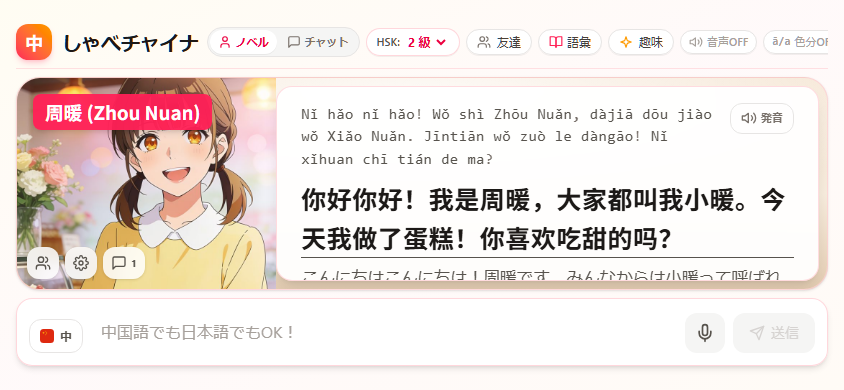
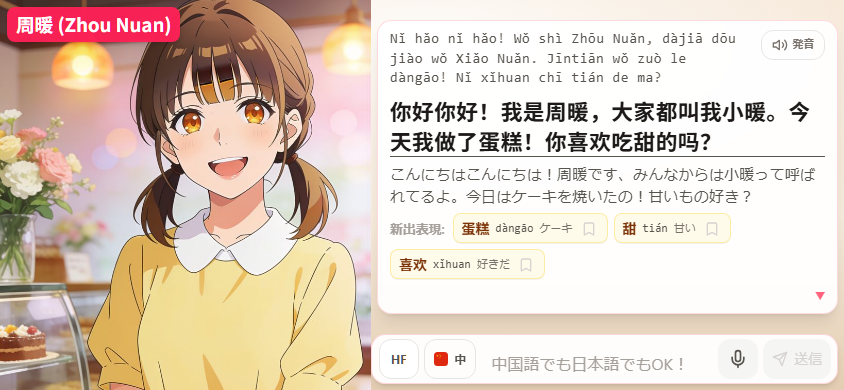
T-47: スマホ横画面レイアウト改善のドキュメントを更新
T-46 の変更を公開ドキュメントへ反映し、記録が抜けていた T-44・T-45 も補う。

- CHANGELOG に T-44 / T-45 / T-46 のエントリを追記
- README のレスポンシブ節を実装に合わせて更新
  （ヘッダーの自動格納、立ち絵が画面下端まで届くこと、初回タップでの全画面試行）
- スマホ横画面のスクリーンショットを新レイアウトで撮り直し
- 撮影定義にヘッダー格納待ちのステップを追加し、代替テキストを更新

diff --git a/CHANGELOG.md b/CHANGELOG.md
@@ -7,6 +7,44 @@
 
 ---
 
+## T-46 — スマホ横画面で立ち絵を画面下端まで通しヘッダーを自動格納
+
+**2026-09-09** · [`c99fbbb`](https://github.com/Satoshi-Hiramatsu/try-chinese/commit/c99fbbbf2cfe31d08747d18b6fb9a9caa90835a8)
+
+T-43 ではヘッダーの圧縮と文字サイズ調整に留まっていたため、スマートフォン横画面のレイアウトを組み直しました。
+
+- 横画面スマートフォンでは最初の画面タップで全画面表示を1度だけ試み、ブラウザのアドレスバーを畳みます。拒否・非対応でも通常表示のまま利用できます。
+- 約4秒の無操作でアプリのヘッダーごと畳み、その高さを立ち絵へ譲ります。画面タップで再表示され、「その他」メニュー展開中は畳みません。
+- ノベル画面を2カラムグリッドへ組み直し、立ち絵ステージを全面に敷いた上で入力欄だけを右カラム下端へ重ねました。立ち絵は画面の下端まで届きます。
+- テキスト枠の下余白を入力欄の実測高さ（CSS変数 `--vn-input-h`）で確保し、音声入力バーの表示で高さが変わっても本文が潜り込まないようにしました。
+- 横画面の回帰テストを追加し、READMEのレスポンシブ表示の記述とスマホ横画面のスクリーンショットを更新しました。
+
+---
+
+## T-45 — TTSモデル検証モードのUIを改善
+
+**2026-09-09** · [`ef6d75a`](https://github.com/Satoshi-Hiramatsu/try-chinese/commit/ef6d75a6b051983fceaaea3b95a7b1e9b5a9d60d)
+
+未読み込みだったCSSを配線し、検証画面が素のHTMLとして表示される問題を解消しました。
+
+- `tts-debug-*` スタイルを `web/src/styles/ttsDebug.css` へ分離し、TtsDebugModal から読み込むようにしました。
+- セクション見出し、すべて選択/解除、空状態、完了件数の表示を追加し、実行ボタンを「選択モデルを実行（n件）」にしました。
+- 単体実行が一括比較の結果を全消去する不具合と、古い結果参照によるBlob URLの解放漏れを修正しました。
+- 単体実行にも費用確認ダイアログを適用し、モーダルにrole/aria-modal/aria-labelledbyとEscでの閉じる操作を追加しました。
+
+---
+
+## T-44 — スマートフォン横画面対応のドキュメントを更新
+
+**2026-09-09** · [`e974bde`](https://github.com/Satoshi-Hiramatsu/try-chinese/commit/e974bde31270e74cfaf988c48c494646834ec76d)
+
+T-43のレスポンシブ対応をREADMEと更新履歴へ反映しました。
+
+- PWAのスタンドアロン表示、全画面操作、safe-area inset対応の説明を追記しました。
+- 横画面での立ち絵優先レイアウトと「その他」メニューへの集約を追記しました。
+
+---
+
 ## T-43 — スマートフォン横画面の会話レイアウトを改善
 
 **2026-09-09** · [`1f3aa72`](https://github.com/Satoshi-Hiramatsu/try-chinese/commit/1f3aa72ccc639fc1400a808ce212041457fee303)

diff --git a/README.md b/README.md
@@ -67,11 +67,13 @@
 | スマートフォン縦画面 | スマートフォン横画面 |
 |---|---|
 | ![スマホ縦画面](docs/screenshots/mobile_portrait.png) | ![スマホ横画面](docs/screenshots/mobile_landscape.png) |
-| 立ち絵が上、テキスト枠が下の上下分割 | 立ち絵が左、テキスト枠が右の2カラム |
+| 立ち絵が上、テキスト枠が下の上下分割 | ヘッダーが畳まれ、立ち絵が画面の下端まで届く2カラム |
 
-横長の画面（PC・タブレット横・スマホ横）では立ち絵を左カラム・テキスト枠を右カラムに分け、縦長の画面では上下に分けます。スマートフォン横画面では立ち絵を優先して広く取り、入力欄とヘッダーを低く保ちます。タイトル・画面モード・HSKは常時表示し、友達・語彙・趣味・音声・設定・履歴削除は「その他」メニューから利用できます。どちらの向きでも本文は立ち絵に重ならず、長い本文と入力内容は各領域内でスクロールできます。
+横長の画面（PC・タブレット横・スマホ横）では立ち絵を左カラム・テキスト枠を右カラムに分け、縦長の画面では上下に分けます。タイトル・画面モード・HSKは常時表示し、友達・語彙・趣味・音声・設定・履歴削除は「その他」メニューから利用できます。どちらの向きでも本文は立ち絵に重ならず、長い本文と入力内容は各領域内でスクロールできます。
 
-PWAとしてインストールするとスタンドアロン表示になります。対応ブラウザでは「その他」から全画面表示を開始・終了できますが、通常のブラウザタブに表示されるアドレスバー等はWebページ側から確実には非表示にできません。
+スマートフォン横画面は縦の余白がもっとも貴重なため、専用のレイアウトに切り替わります。約4秒の無操作でアプリのヘッダーごと畳んでその高さを立ち絵へ譲り、立ち絵は画面の下端まで届きます。テキスト枠と入力欄は右カラムにまとまり、本文が入力欄の下に潜り込むことはありません。畳まれたヘッダーと補助操作は画面をタップすれば戻ります。
+
+PWAとしてインストールするとスタンドアロン表示になります。通常のブラウザタブに表示されるアドレスバー等はWebページ側から確実には非表示にできないため、スマートフォン横画面では最初の画面タップで全画面表示を1度だけ試みます。対応ブラウザでは「その他」から全画面表示を開始・終了でき、非対応環境や拒否された場合も通常表示のまま利用できます。
 
 ### チャット画面 — 履歴を一覧で振り返る
 
